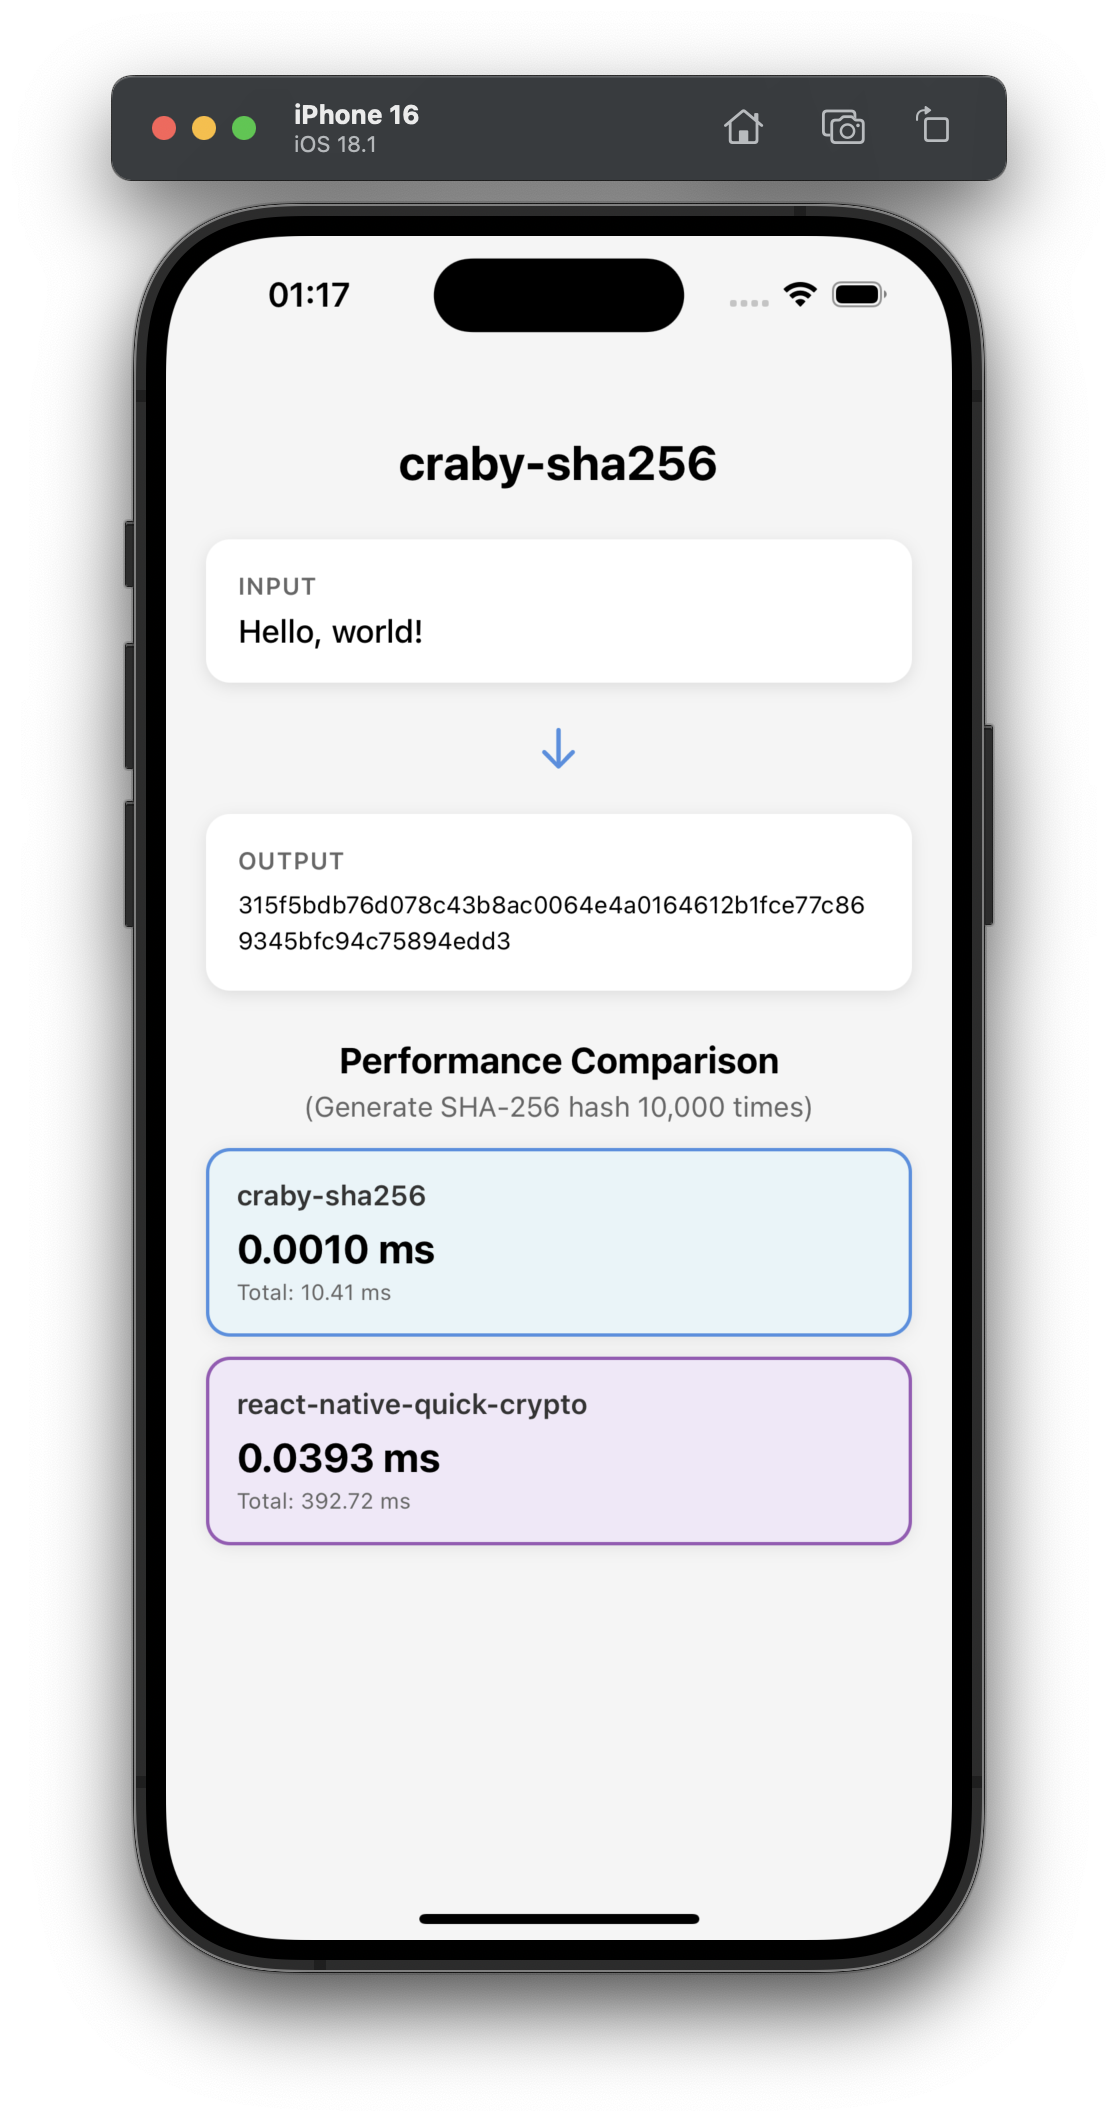
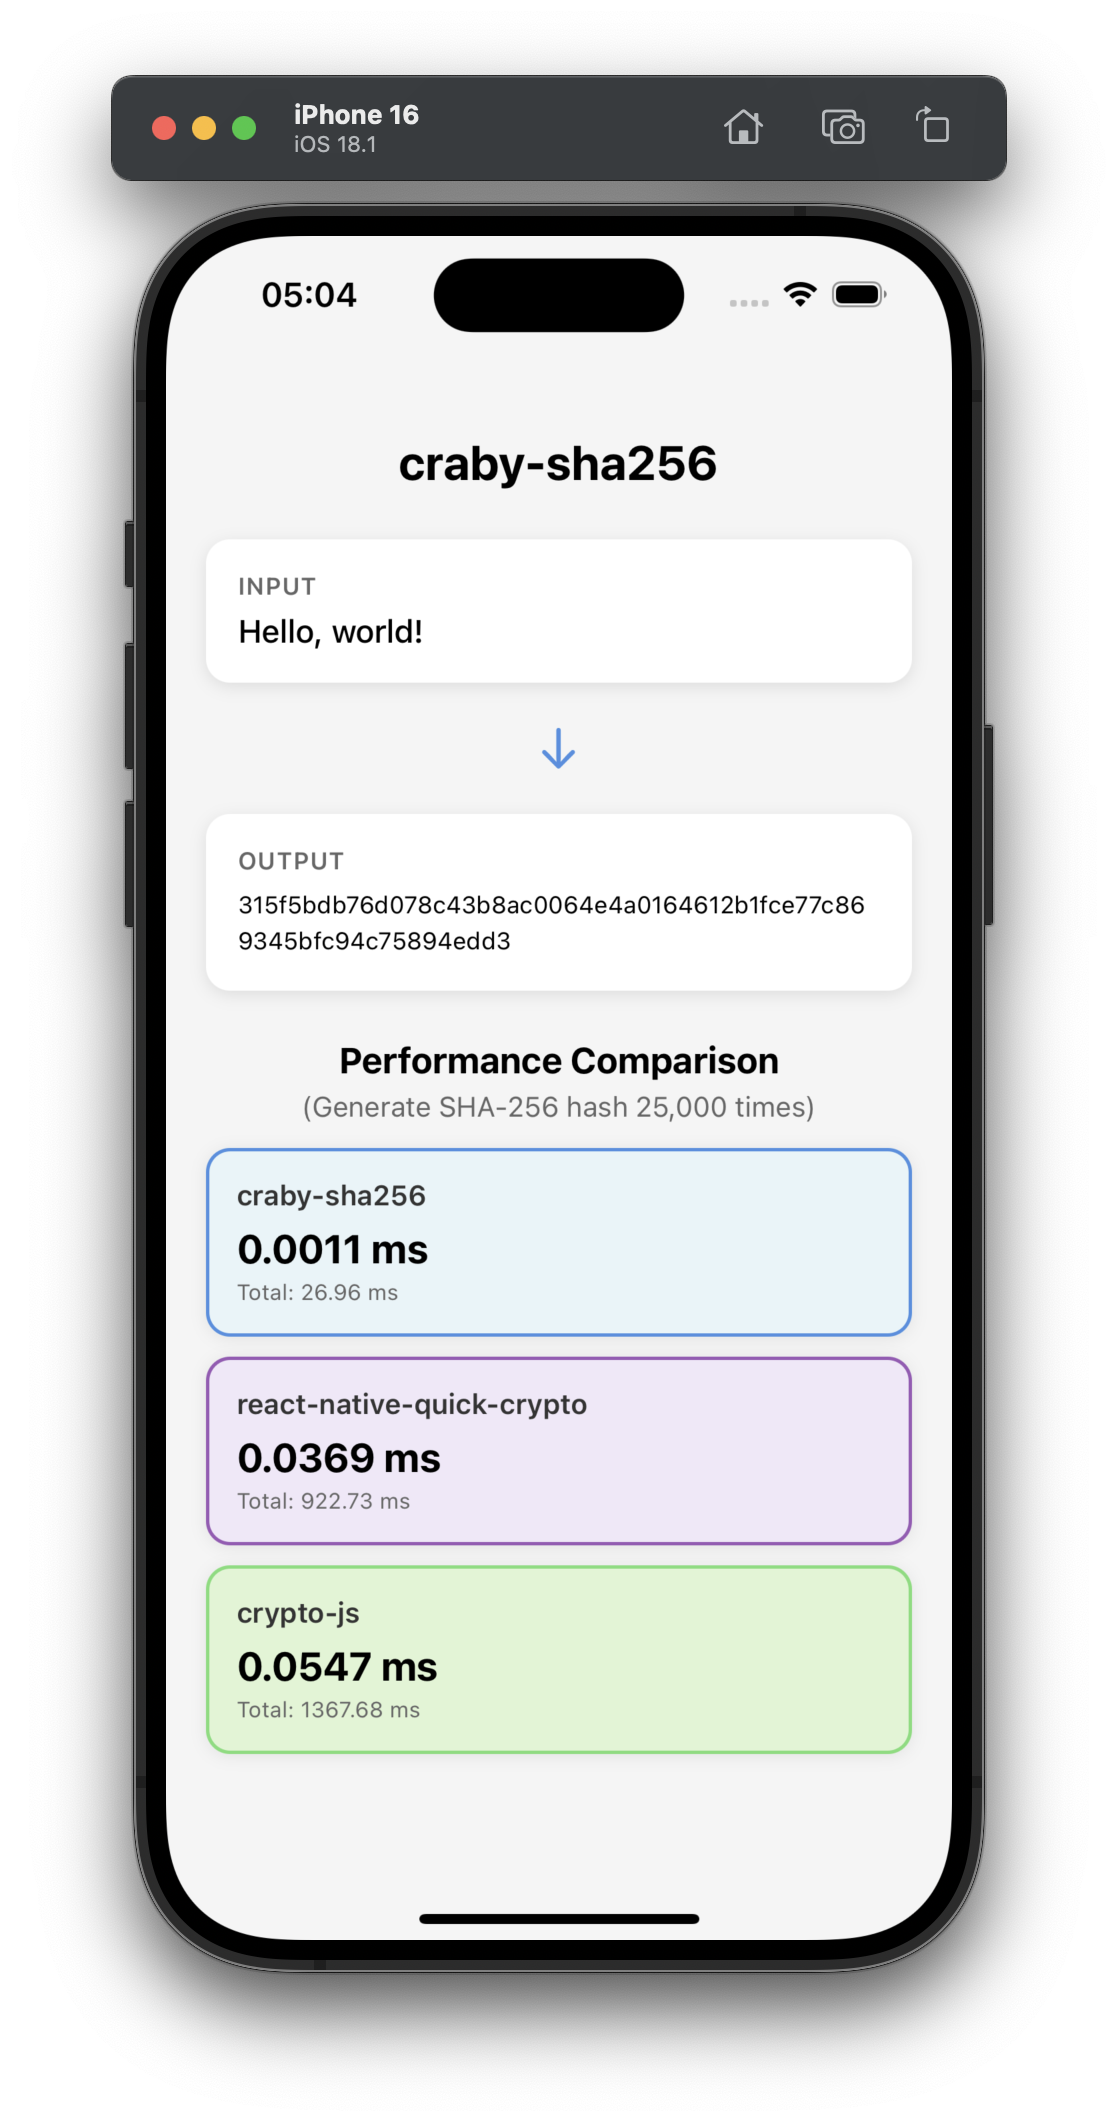
feat: add crypto-js benchmark

diff --git a/example/App.tsx b/example/App.tsx
@@ -2,14 +2,16 @@ import { useState, useEffect } from 'react';
 import { StatusBar, StyleSheet, Text, View, ActivityIndicator, ScrollView } from 'react-native';
 import { SafeAreaProvider, SafeAreaView } from 'react-native-safe-area-context';
 import { Sha256 } from 'craby-sha256';
+import CryptoJS from 'crypto-js';
 import QuickCrypto from 'react-native-quick-crypto';
 
 const INPUT = 'Hello, world!';
-const ITERATIONS = 10000;
+const ITERATIONS = 25000;
 
 function App() {
   const [benchmarkA, setBenchmarkA] = useState(null);
   const [benchmarkB, setBenchmarkB] = useState(null);
+  const [benchmarkC, setBenchmarkC] = useState(null);
   const [isCalculating, setIsCalculating] = useState(true);
 
   useEffect(() => {
@@ -42,6 +44,19 @@ function App() {
       setBenchmarkB({
         avg: averageB,
         total: totalTimeB,
+      });
+
+      // C: crypto-js
+      const startTimeC = performance.now();
+      for (let i = 0; i < ITERATIONS; i++) {
+        CryptoJS.SHA256(INPUT + i).toString();
+      }
+      const endTimeC = performance.now();
+      const totalTimeC = endTimeC - startTimeC;
+      const averageC = totalTimeC / ITERATIONS;
+      setBenchmarkC({
+        avg: averageC,
+        total: totalTimeC,
       });
 
       setIsCalculating(false);
@@ -106,6 +121,16 @@ function App() {
                   </Text>
                   <Text style={styles.benchmarkDetail}>
                     Total: {benchmarkB.total.toFixed(2)} ms
+                  </Text>
+                </View>
+
+                <View style={[styles.benchmarkCard, styles.libraryC]}>
+                  <Text style={styles.libraryName}>crypto-js</Text>
+                  <Text style={styles.benchmarkValue}>
+                    {benchmarkC.avg.toFixed(4)} ms
+                  </Text>
+                  <Text style={styles.benchmarkDetail}>
+                    Total: {benchmarkC.total.toFixed(2)} ms
                   </Text>
                 </View>
               </>
@@ -222,6 +247,11 @@ const styles = StyleSheet.create({
     backgroundColor: '#f0e8f8',
     borderWidth: 1.5,
     borderColor: '#9b59b6',
+  },
+  libraryC: {
+    backgroundColor: '#dff5d3',
+    borderWidth: 1.5,
+    borderColor: '#77dd77',
   },
   libraryName: {
     fontSize: 14,
